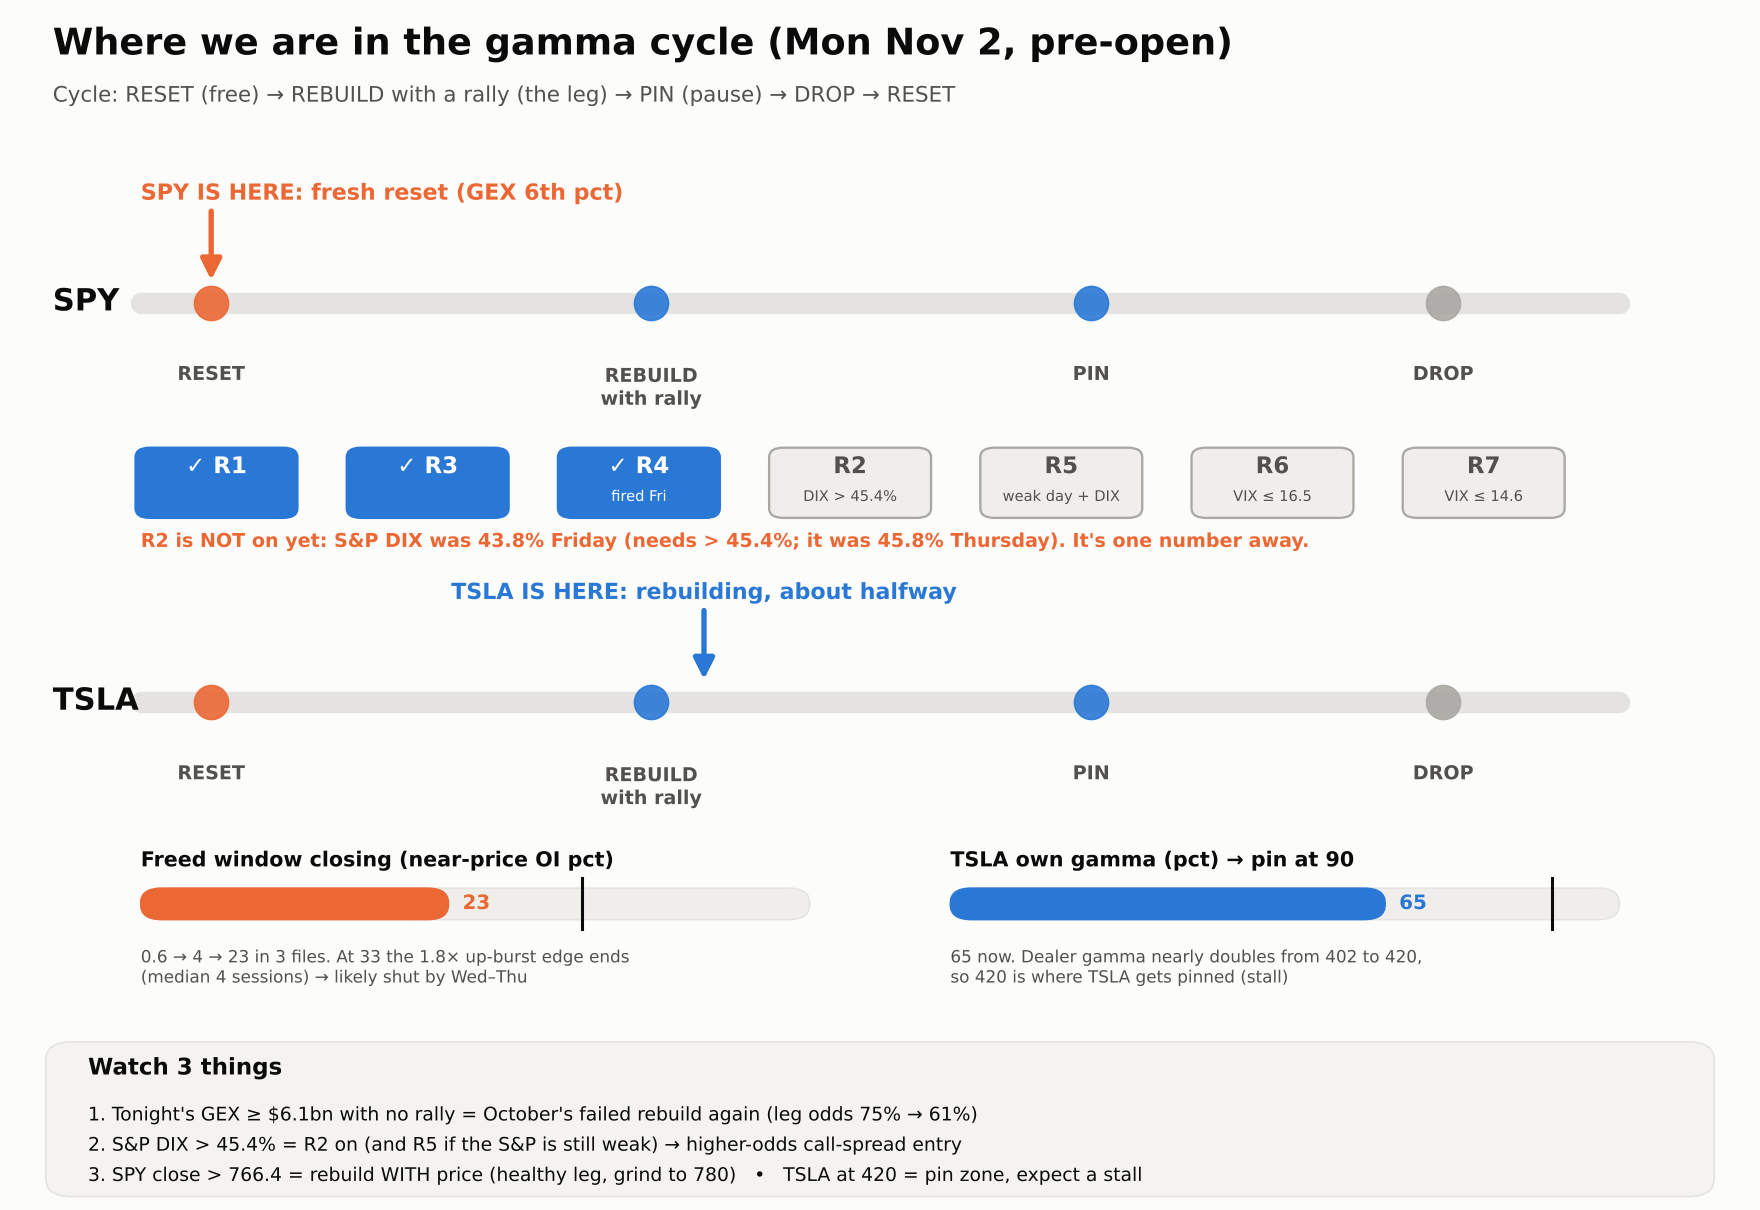
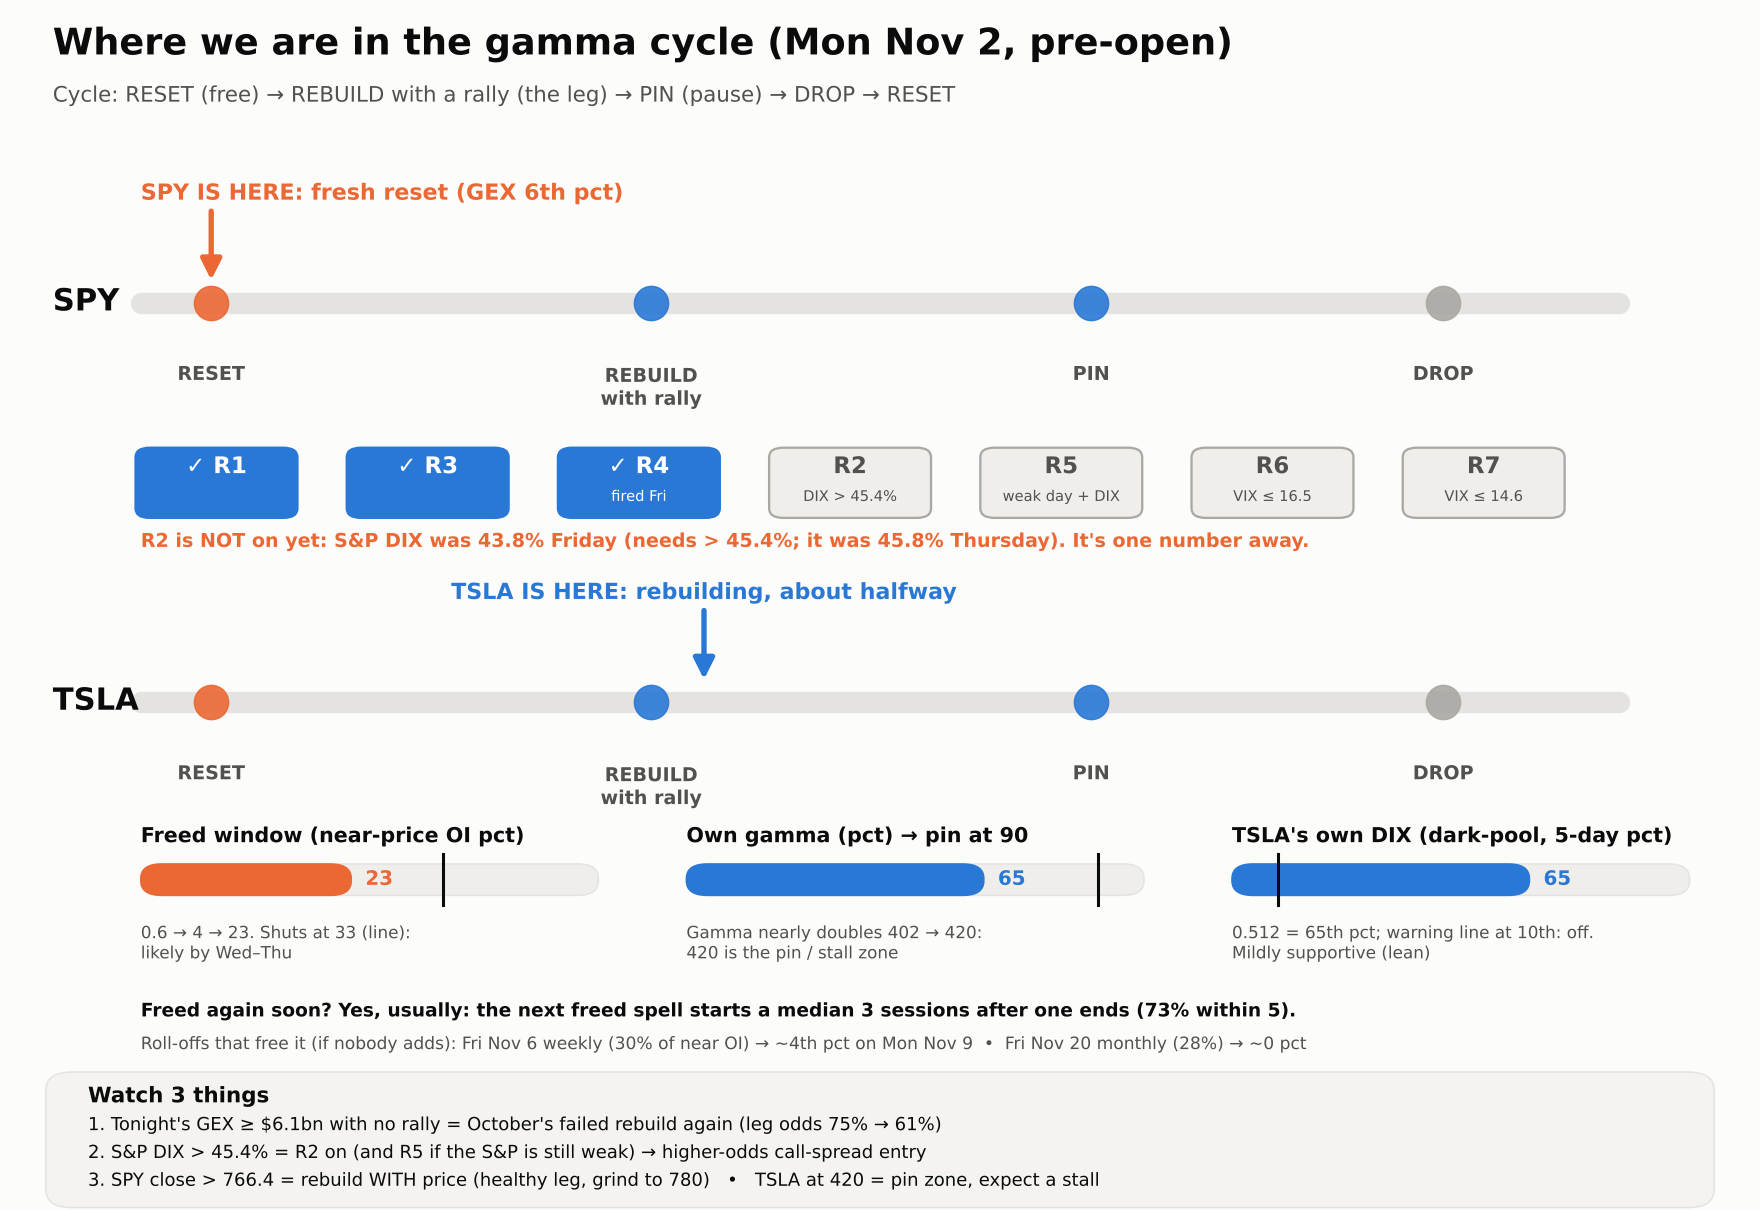
Live read Nov 2: TSLA re-freeing schedule (Nov 6 weekly 30% / Nov 20 monthly 28% of near OI; next spell median 3 sessions), TSLA DIX on the picture, forecasts N3/N4 pre-open
Claude-Session: https://claude.ai/code/session_01BLeRcE4q4QKts4yCLqRzgv

Changed region(s): [[0.0312, 0.6727, 0.9375, 1.0], [0.7188, 0.8562, 0.75, 0.8868]]

diff --git a/research/agents/2026-11-02-live-read/tsla_refree.py b/research/agents/2026-11-02-live-read/tsla_refree.py
@@ -1,0 +1,53 @@
+"""Can TSLA get 'freed' again soon? (map + descriptive history, not a test)
+(a) Roll-off schedule: near-price OI share (OI within +-5% of spot in expiries <= 45 days / all OI <= 120 days, engine definition)
+    now and after each expiry rolls off, assuming no new contracts (an upper bound on freeing), ranked vs the engine's trailing year.
+(b) History 2021-26: after a freed spell ends, how soon does the next one start; freed odds by days to monthly opex.
+Usage: python tsla_refree.py <td dir> -> out/tsla_refree.json"""
+import json
+import sys
+from pathlib import Path
+
+import numpy as np
+import pandas as pd
+
+HERE = Path(__file__).resolve().parent; MICRO = HERE.parents[1] / "microstructure"
+sys.path[:0] = [str(HERE.parent / "2026-10-27-flip-wicks")]
+from flipmap import norm   # noqa: E402
+td = Path(sys.argv[1]); MON = pd.Timestamp("2026-11-02"); S = 402.22
+o = norm(pd.read_csv(td / "TSLA_oi_20261102.csv.gz")); c = [x for x in o.columns if "open_interest" in x or x == "oi"][0]
+o["exp"] = pd.to_datetime(o.expiration); o = o[(o.exp >= MON) & (o.exp <= MON + pd.Timedelta(days=120))]
+h = pd.read_csv(MICRO / "out" / "td_gamma_TSLA.csv", parse_dates=["date"]).set_index("date")
+hist = h.near_oi_share.iloc[-251:]
+def share(df, d, spot):
+    near = df[(df.exp - d).dt.days.le(45) & df.strike.between(0.95 * spot, 1.05 * spot)][c].sum(); return float(near / df[c].sum())
+exps = sorted(o.exp.unique()); res = {"expiries in file": [str(pd.Timestamp(e).date()) for e in exps]}
+near_by = o[(o.exp - MON).dt.days.le(45) & o.strike.between(0.95 * S, 1.05 * S)].groupby("exp")[c].sum()
+res["near-price OI by expiry (thousands, share of near total)"] = {str(pd.Timestamp(e).date()): [round(float(v / 1e3), 1), round(float(v / near_by.sum()), 3)] for e, v in near_by.items()}
+steps = {}
+for d, lab in [(MON, "now (Nov 2 OI)"), (pd.Timestamp("2026-11-03"), "after Mon Nov 2 expiry"), (pd.Timestamp("2026-11-05"), "after Wed Nov 4"), (pd.Timestamp("2026-11-09"), "after Fri Nov 6"),
+               (pd.Timestamp("2026-11-16"), "after Fri Nov 13"), (pd.Timestamp("2026-11-23"), "after Fri Nov 20 (monthly)")]:
+    x = o[o.exp >= d]
+    for sp in (S, 420.0, 385.0):
+        s = share(x, d, sp); steps.setdefault(lab, {})[f"at {sp:g}"] = [round(s, 4), round(float((hist < s).mean()), 3)]
+res["near share and pct if nobody adds contracts [share, pct]"] = steps
+# (b) history
+p = h.near_oi_share.rolling(252, min_periods=120).rank(pct=True).dropna(); fr = p <= 1 / 3
+ends = fr.index[(~fr) & fr.shift(1, fill_value=False)]; gaps = []
+for e in ends:
+    nxt = fr[(fr.index > e) & fr]
+    if len(nxt): gaps.append(int(fr.index.get_loc(nxt.index[0]) - fr.index.get_loc(e)))
+g = np.array(gaps)
+res["after a freed spell ends: sessions until the next one (n, median, IQR, share <= 5 / <= 10 / <= 15)"] = [len(g), float(np.median(g)), [float(np.percentile(g, 25)), float(np.percentile(g, 75))],
+    round(float((g <= 5).mean()), 2), round(float((g <= 10).mean()), 2), round(float((g <= 15).mean()), 2)]
+def third_fri(y, m):
+    d = pd.Timestamp(y, m, 1); return d + pd.Timedelta(days=(4 - d.weekday()) % 7 + 14)
+opex = sorted({third_fri(d.year, d.month) for d in p.index} | {third_fri((d + pd.offsets.MonthBegin(1)).year, (d + pd.offsets.MonthBegin(1)).month) for d in p.index})
+nxt = [min(x for x in opex if x >= d) for d in p.index]; dto = np.array([np.busday_count(d.date(), n.date()) for d, n in zip(p.index, nxt)])
+tab = {}
+for lo, hi, lab in [(0, 0, "opex day"), (1, 3, "1-3 sessions before"), (4, 8, "4-8 before"), (9, 13, "9-13 before"), (14, 25, "14+ before")]:
+    m = (dto >= lo) & (dto <= hi); tab[lab] = [int(m.sum()), round(float(fr[m].mean()), 2)]
+after = np.array([np.busday_count(max(x for x in opex if x <= d).date(), d.date()) if any(x <= d for x in opex) else 99 for d in p.index])
+for lo, hi, lab in [(1, 3, "1-3 sessions after opex"), (4, 6, "4-6 after")]:
+    m = (after >= lo) & (after <= hi); tab[lab] = [int(m.sum()), round(float(fr[m].mean()), 2)]
+res["freed odds by position in the monthly cycle [days, P(freed)] (all days ~33%)"] = tab
+json.dump(res, open(HERE / "out" / "tsla_refree.json", "w"), indent=1); print(json.dumps(res, indent=1))

diff --git a/research/agents/2026-11-02-live-read/figure_adhd.py b/research/agents/2026-11-02-live-read/figure_adhd.py
@@ -46,12 +46,15 @@ def meter(y, x, w, val, lo, hi, line, title, sub, col):
     ax.text(x, y - 5.2, sub, fontsize=11, color=INK2)
 
 
-meter(24, 8, 38, 23, 0, 50, 33, "Freed window closing (near-price OI pct)", "0.6 → 4 → 23 in 3 files. At 33 the 1.8× up-burst edge ends\n(median 4 sessions) → likely shut by Wed–Thu", ORG)
-meter(24, 54, 38, 65, 0, 100, 90, "TSLA own gamma (pct) → pin at 90", "65 now. Dealer gamma nearly doubles from 402 to 420,\nso 420 is where TSLA gets pinned (stall)", BLUE)
+meter(26, 8, 26, 23, 0, 50, 33, "Freed window (near-price OI pct)", "0.6 → 4 → 23. Shuts at 33 (line):\nlikely by Wed–Thu", ORG)
+meter(26, 39, 26, 65, 0, 100, 90, "Own gamma (pct) → pin at 90", "Gamma nearly doubles 402 → 420:\n420 is the pin / stall zone", BLUE)
+meter(26, 70, 26, 65, 0, 100, 10, "TSLA's own DIX (dark-pool, 5-day pct)", "0.512 = 65th pct; warning line at 10th: off.\nMildly supportive (lean)", BLUE)
+ax.text(8, 16.0, "Freed again soon? Yes, usually: the next freed spell starts a median 3 sessions after one ends (73% within 5).", fontsize=12.2, color=INK, weight="bold")
+ax.text(8, 13.3, "Roll-offs that free it (if nobody adds): Fri Nov 6 weekly (30% of near OI) → ~4th pct on Mon Nov 9  •  Fri Nov 20 monthly (28%) → ~0 pct", fontsize=11.2, color=INK2)
 
-ax.add_patch(FancyBboxPatch((3, 1.5), 94, 12, boxstyle="round,pad=0.4,rounding_size=1.5", fc="#f4f3ef", ec=GRID))
-ax.text(5, 11.2, "Watch 3 things", fontsize=15, weight="bold", color=INK)
-ax.text(5, 7.4, "1. Tonight's GEX ≥ $6.1bn with no rally = October's failed rebuild again (leg odds 75% → 61%)", fontsize=12.3, color=INK)
-ax.text(5, 4.9, "2. S&P DIX > 45.4% = R2 on (and R5 if the S&P is still weak) → higher-odds call-spread entry", fontsize=12.3, color=INK)
-ax.text(5, 2.4, "3. SPY close > 766.4 = rebuild WITH price (healthy leg, grind to 780)   •   TSLA at 420 = pin zone, expect a stall", fontsize=12.3, color=INK)
+ax.add_patch(FancyBboxPatch((3, 0.6), 94, 10.4, boxstyle="round,pad=0.4,rounding_size=1.5", fc="#f4f3ef", ec=GRID))
+ax.text(5, 8.9, "Watch 3 things", fontsize=14, weight="bold", color=INK)
+ax.text(5, 6.6, "1. Tonight's GEX ≥ $6.1bn with no rally = October's failed rebuild again (leg odds 75% → 61%)", fontsize=11.8, color=INK)
+ax.text(5, 4.3, "2. S&P DIX > 45.4% = R2 on (and R5 if the S&P is still weak) → higher-odds call-spread entry", fontsize=11.8, color=INK)
+ax.text(5, 2.0, "3. SPY close > 766.4 = rebuild WITH price (healthy leg, grind to 780)   •   TSLA at 420 = pin zone, expect a stall", fontsize=11.8, color=INK)
 fig.savefig(HERE / "out" / "where_1102.png", dpi=110, facecolor=BG); print("ok")

diff --git a/research/agents/2026-11-02-live-read/README.md b/research/agents/2026-11-02-live-read/README.md
@@ -291,3 +291,23 @@ S1, S2, S7 and T1–T4 are unchanged.
 |---|---|---|---|
 | N1 | "Rebuilt without price" fires by Fri Nov 6 (GEX pct ≥ 0.56 with the S&P inside the band) | 34% after R4 (43% in 2019Q4–26) | **35%** |
 | N2 | TSLA near-price OI back above the 33rd pct in the Nov 4 OI file (Nov 3 close positions) | median 4 sessions from Oct 30 | **60%** |
+
+---
+
+## Added 09:08 ET (pre-open): can TSLA get freed again soon? (owner) + TSLA's DIX on the one-glance picture
+* **Reproduce:** `python tsla_refree.py <td>`. Map plus descriptive history, not a test.
+* **Roll-off schedule.** Share of near-price OI by expiry: Nov 2 19%, Nov 4 8%, **Nov 6 30%**, Nov 13 6%, **Nov 20 monthly 28%**.
+  * If nobody opens new contracts (an upper bound on freeing), the freed pct at 402 runs: now 22 → after today 31 → after Wed 23 → **after Fri Nov 6: 4th pct (Mon Nov 9)** → after Nov 13: 2nd → **after Nov 20: 0th**.
+* **History (2021–26):**
+  * After a freed spell ends, the next one starts in a **median 3 sessions** (IQR 2–7); 73% within 5 sessions, 84% within 10.
+  * Freed odds by place in the monthly cycle: opex day 49%; 4–6 sessions after opex 42%; **4–8 sessions before opex 21%** (OI builds into opex); all days ~33%.
+* **Reading:** yes, freeing recurs fast.
+  * Mechanically, **Mon Nov 9** (after the Nov 6 weekly) is the next chance.
+  * But next week sits 4–8 sessions before the Nov 20 monthly, historically the least-freed stretch, as new OI piles in.
+  * **The bigger, more reliable reset is the week of Nov 23**, after the monthly.
+* **Picture:** TSLA's own DIX (5-day dark-pool index 0.512 = 65th pct; the bottom-tenth warning is off) added as a third TSLA meter.
+
+| # | Forecast (09:08 ET, pre-open) | Map | **My call** |
+|---|---|---|---|
+| N3 | TSLA freed (≤ 33rd pct) in the Nov 9 OI file (Nov 6 close positions) | 4th pct if no new OI | **50%** |
+| N4 | TSLA freed in the Nov 23 OI file (after the Nov 20 monthly) | ~0 pct if no new OI | **70%** |
